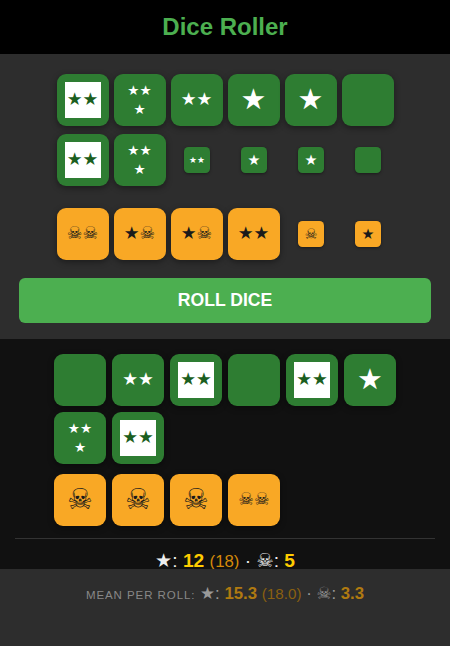
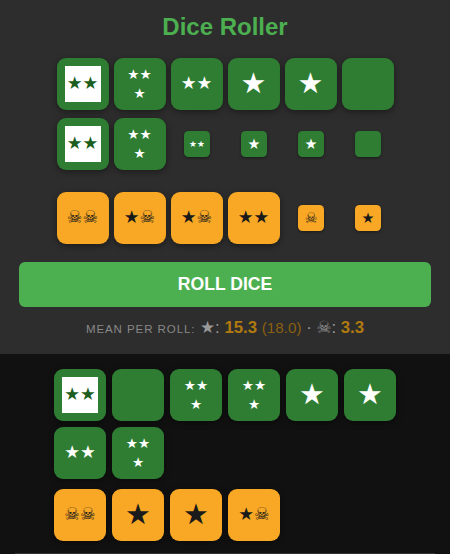
Apply remaining changes

diff --git a/index.html b/index.html
@@ -10,8 +10,8 @@
     <style>
         body { font-family: 'Segoe UI', Tahoma, Geneva, Verdana, sans-serif; background: #1a1a1a; color: #eee; display: flex; justify-content: center; align-items: center; min-height: 100vh; margin: 0; }
         .container { background: #2d2d2d; border-radius: 12px; box-shadow: 0 10px 30px rgba(0,0,0,0.5); width: 450px; max-width: 100%; text-align: center; overflow: hidden; }
-        .title-section { background: #000; padding: 0.8rem 1rem; }
-        .input-section { background: #2d2d2d; padding: 1rem 1.2rem; }
+        .title-section { background: #2d2d2d; padding: 0.8rem 1rem; }
+        .input-section { background: #2d2d2d; padding: 0 1.2rem 1rem; }
         h2 { margin: 0; color: #4caf50; }
 
         /* Die selectors */
@@ -58,7 +58,7 @@
         .has-selected .result-die:not(.selected) { opacity: 0.45; }
 
         /* Mean / expected-value field */
-        .median-stats { white-space: nowrap; background: #2d2d2d; padding: 14px 20px; font-size: 1.05rem; color: #999; height: 48px; overflow-y: auto; }
+        .median-stats { white-space: nowrap; padding: 10px 0 0; font-size: 1.05rem; color: #999; }
         .median-label { font-size: 0.72rem; color: #888; text-transform: uppercase; letter-spacing: 0.08em; }
         .median-stats .stat-val { color: #b07a10; }
         .median-stats .weighted { color: #8a6010; font-size: 0.95rem; }
@@ -81,9 +81,9 @@
             <div class="die-selector" id="y-selector"></div>
         </div>
         <div id="btn-area"><button id="roll-btn">ROLL DICE</button></div>
+        <div id="median" class="median-stats"></div>
     </div>
     <div id="out" class="results">Click dice above to select, then roll!</div>
-    <div id="median" class="median-stats"></div>
 </div>
 
 <script>
